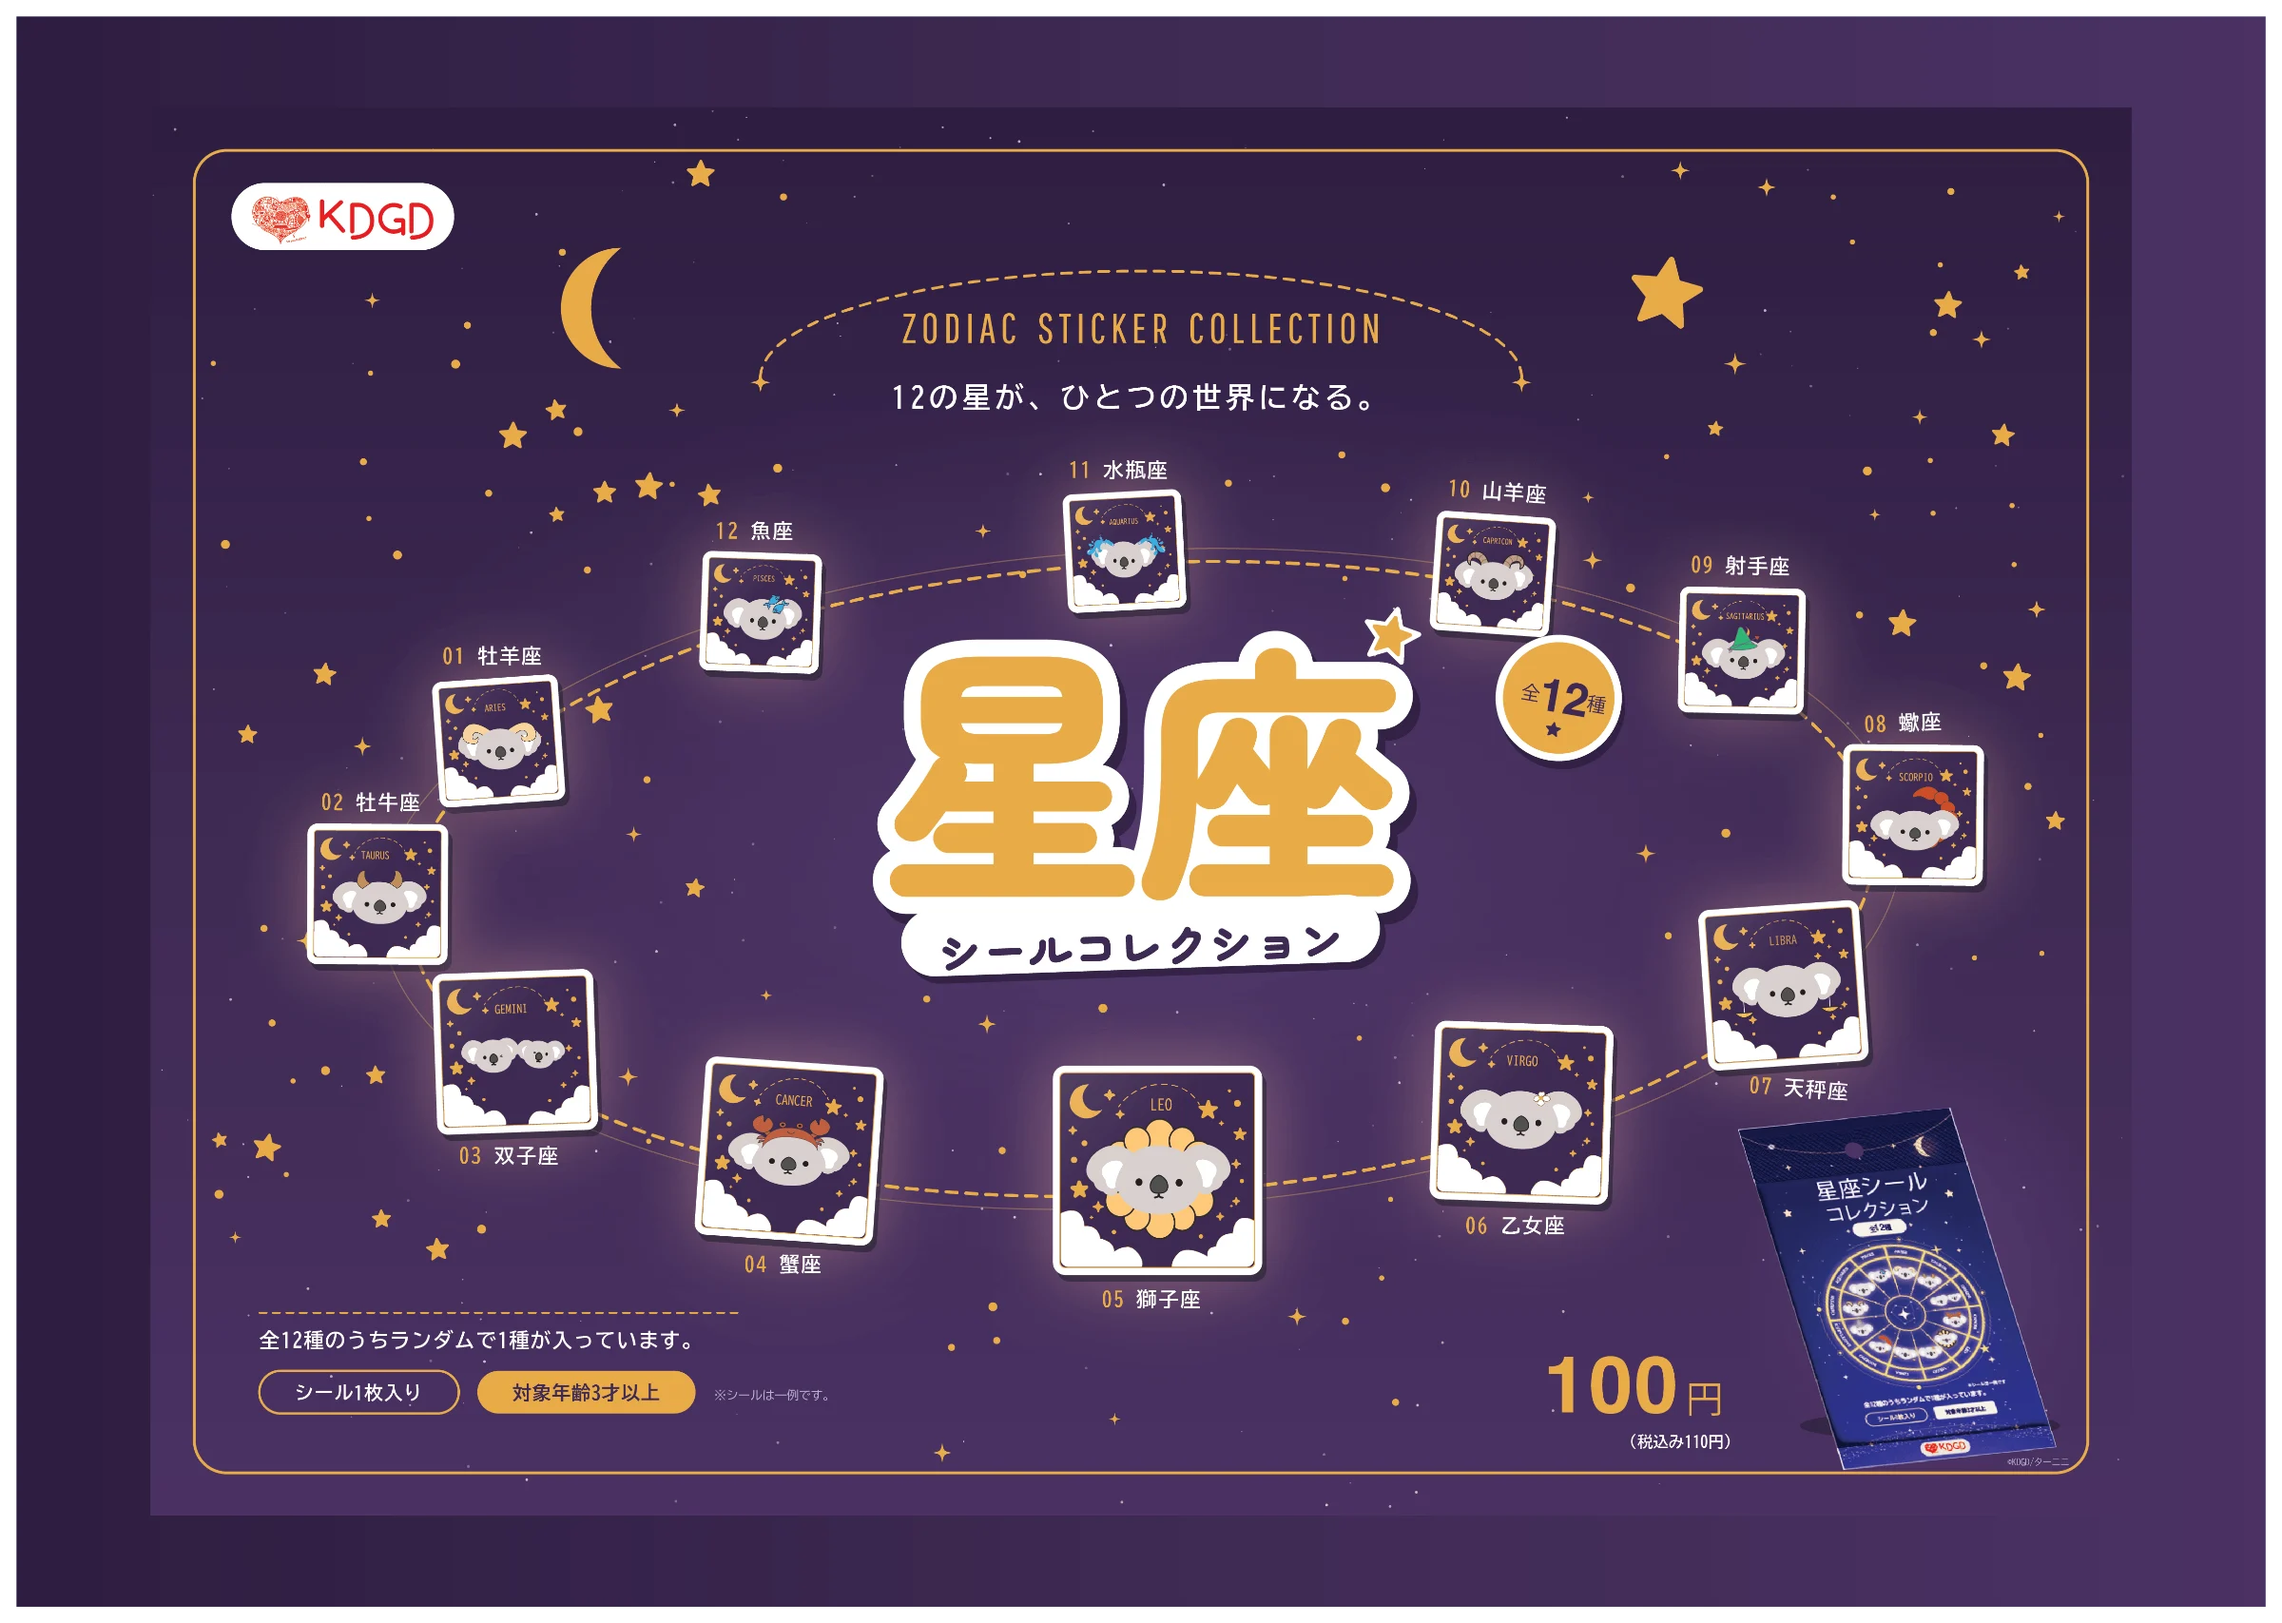
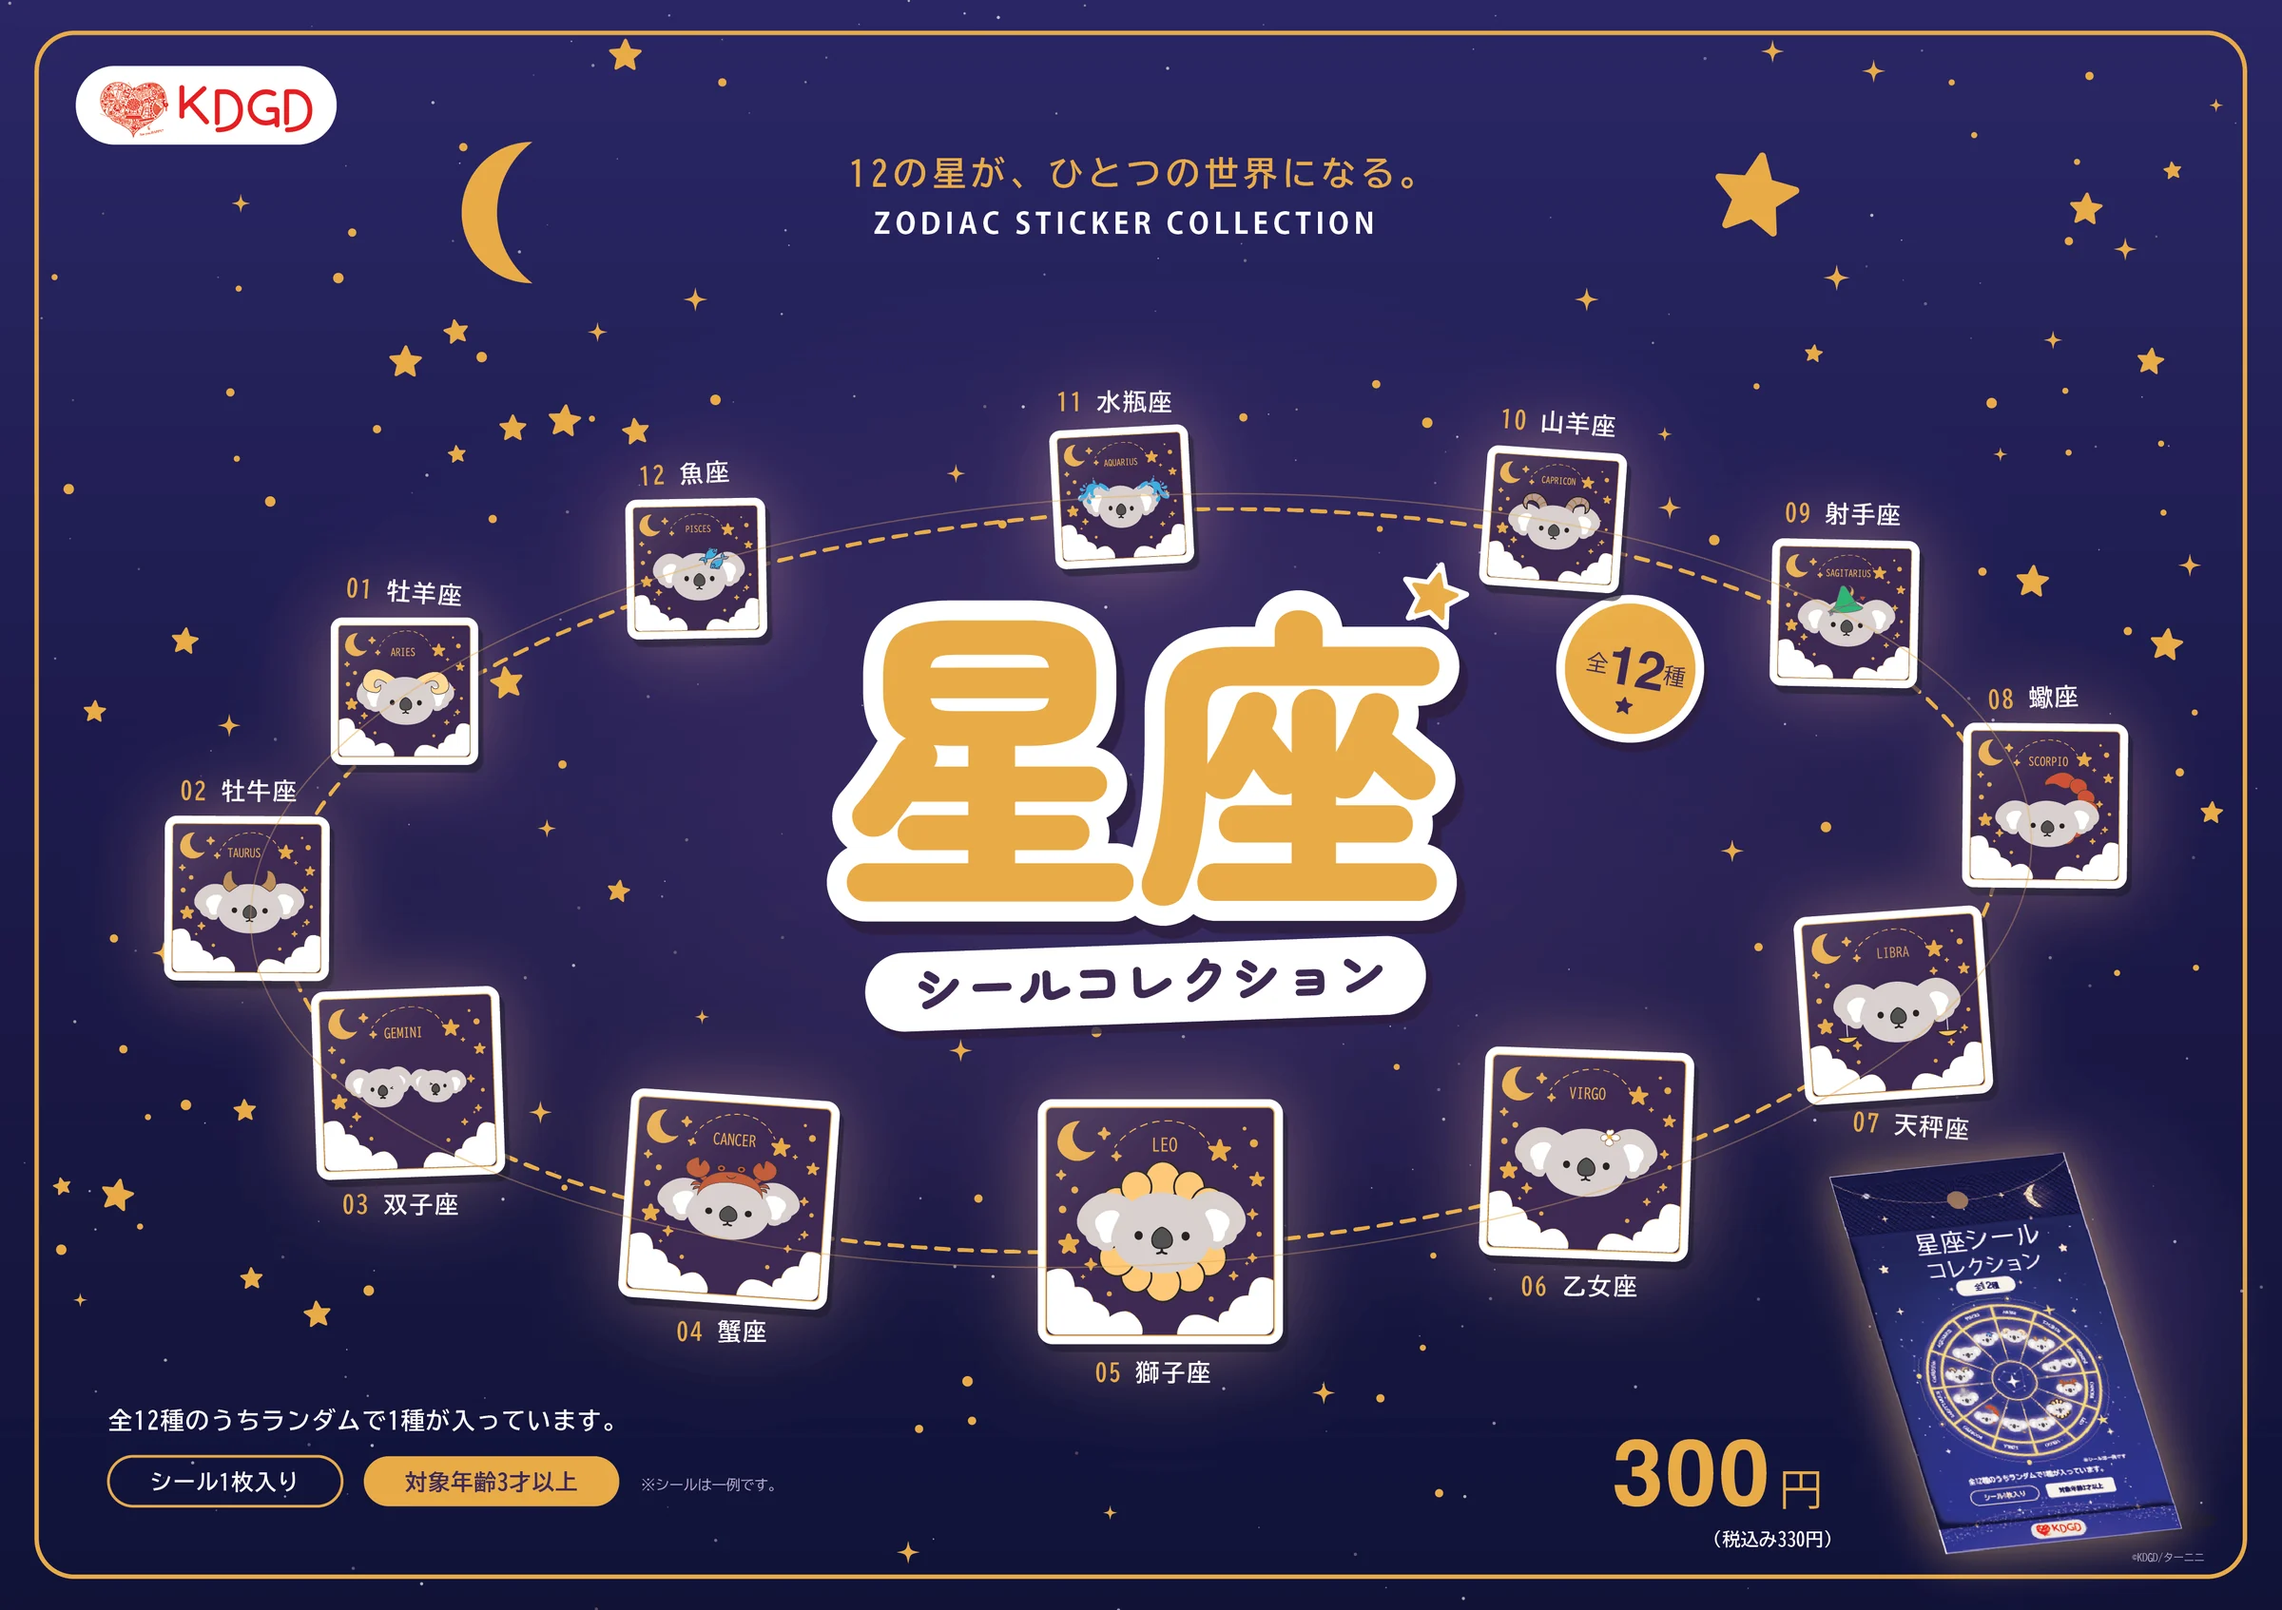
12 Zodiac: new poster (indigo background, 300 yen), trimmed to A3 with no crop marks

diff --git a/work-zodiac.html b/work-zodiac.html
@@ -144,7 +144,7 @@
           <div class="format-item" style="flex:1 1 220px; max-width:340px;"><img src="assets/works/zodiac/package-02.webp" alt="星座シールコレクション パッケージ 裏面（全12種の一覧）"loading="lazy"><span class="format-label">Package · Back</span></div>
         </div>
         <div class="detail-hero-visual show-full" style="margin:var(--sp-5) 0 0;">
-          <img src="assets/works/zodiac/poster.webp" alt="星座シールコレクション ポスター — 12の星が、ひとつの世界になる。" width="2400" height="1707" loading="lazy">
+          <img src="assets/works/zodiac/poster.webp" alt="星座シールコレクション ポスター — 12の星が、ひとつの世界になる。" width="2400" height="1694" loading="lazy">
         </div>
       </div>
     </div>
